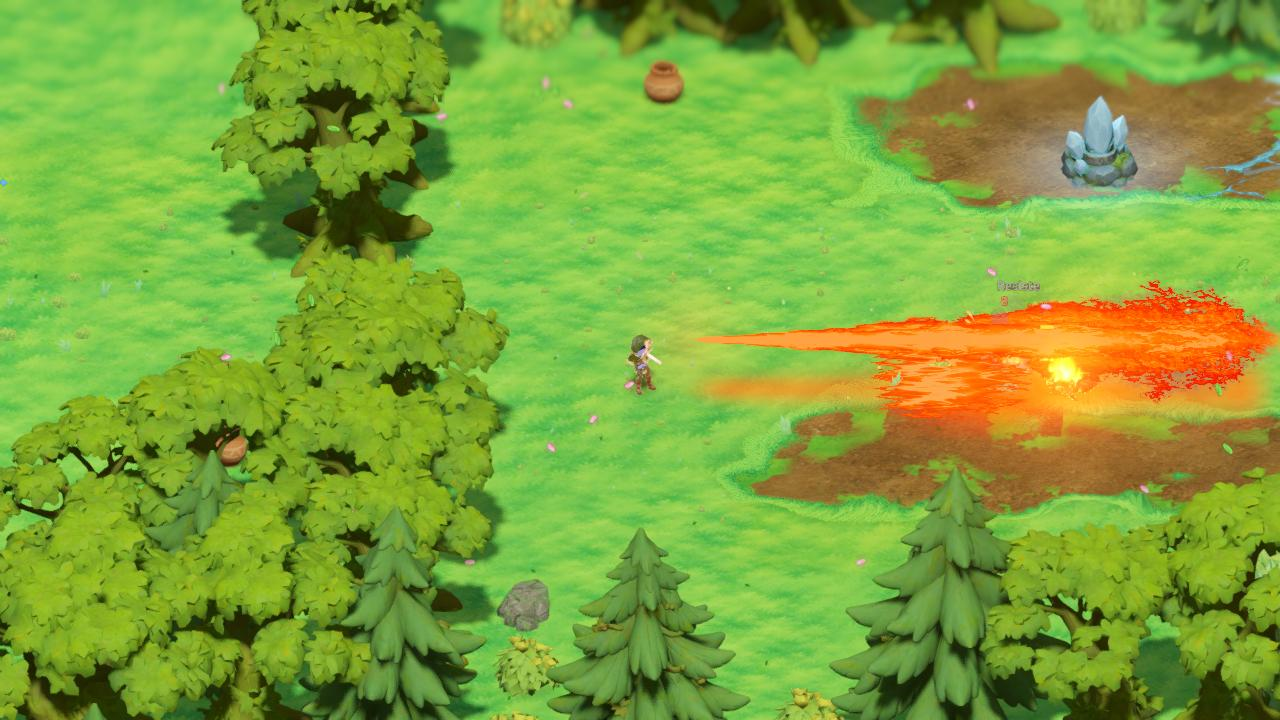
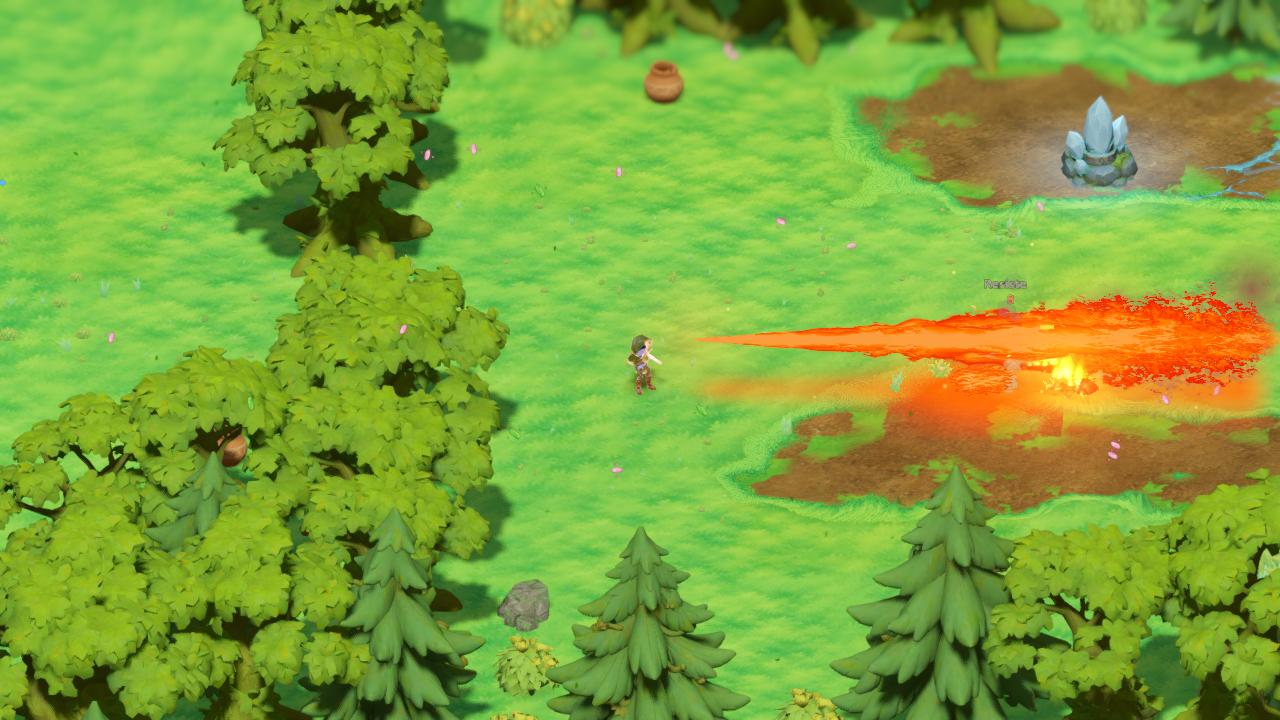
VFX haz de fuego 3a ronda: salpicadura mas pequena y pegada al obstaculo

diff --git a/docs/DIARIO.md b/docs/DIARIO.md
@@ -4798,3 +4798,5 @@ Pablo entregó el arte (escombro_arriba.png, escombro_terreno.glb, vapor.png, na
 ## 420 — VFX (9/11): **Haz de fuego, 2.ª ronda: recuperar el cuerpo del chorro, salpicadura como llamas, humo y luz visibles** (Pablo vio la HOJA_RESUMEN: «quedó plano»)
 **Chorro.** La rampa ya no se comprime a un tope plano: llega solo a naranja (`tope_calor` 0,62) y el núcleo se aclara hacia un naranja-salmón cálido (`nucleo_claro`, `color_claro`), nunca amarillo; así hay rojo oscuro en el borde, rojo, naranja y salmón en el centro. El núcleo (`Nucleo`) tiene menos `cuerpo`/`calor_extra` con las ideas encendidas para que se vean sus lenguas y bocanadas con bordes recortados. **Salpicadura** (`salpicadura_haz.gdshader`, reescrita): ya no es polar (sin rayos simétricos); es un lamido con la misma textura de lenguas, bordes por umbral y rampa que el chorro, más alto en el centro, curvado hacia los lados al subir; la lámina del suelo es una mancha de llamas irregular (80 % del tamaño). **Humo** (más y más grande, 1,7 m, más oscuro, 2 s) y **luz del suelo** (más fuerte, k hasta 0,3, choque 0,9) ahora se leen en la cámara del juego; el decal sigue sin teñir entidades (`alto_max` 0,45). Agua, rayo y formas validadas sin cambios.
 **Pruebas:** haz, haz_fuego_ideas, vfx_toy, vfx_en_juego, agua_toy y rayo_toy en 0. Capturas y HOJA_RESUMEN regeneradas (`docs/capturas/vfx_en_juego/haz_fuego_ideas/`). Ojo: el chorro «después» sigue siendo más rojo que el «antes» (a propósito, sin amarillo) y la salpicadura contra muro es grande.
+## 421 — VFX (9/11): **Haz de fuego, 3.ª ronda: salpicadura más pequeña y pegada al obstáculo** (Pablo aprobó el cuerpo del chorro)
+La salpicadura contra muro y goblin se extendía por el suelo como una mancha tan grande como el chorro. Ahora la lámina vertical mide ~0,8 × el grosor del chorro al final (`clampf(r · 1,6, 1,2, 2,2)`), pegada al punto de choque, y la del suelo es ~0,55 de ella (≈ 0,4 de lo anterior) y se centra en el pie del obstáculo (a 0,12 m delante, ya no a 0,2 · tam). Chorro, humo, luz del suelo, agua y rayo sin cambios. Pruebas del haz, haz_fuego_ideas, vfx_toy y vfx_en_juego en 0; capturas de fuego contra muro y goblin y HOJA_RESUMEN regeneradas.
